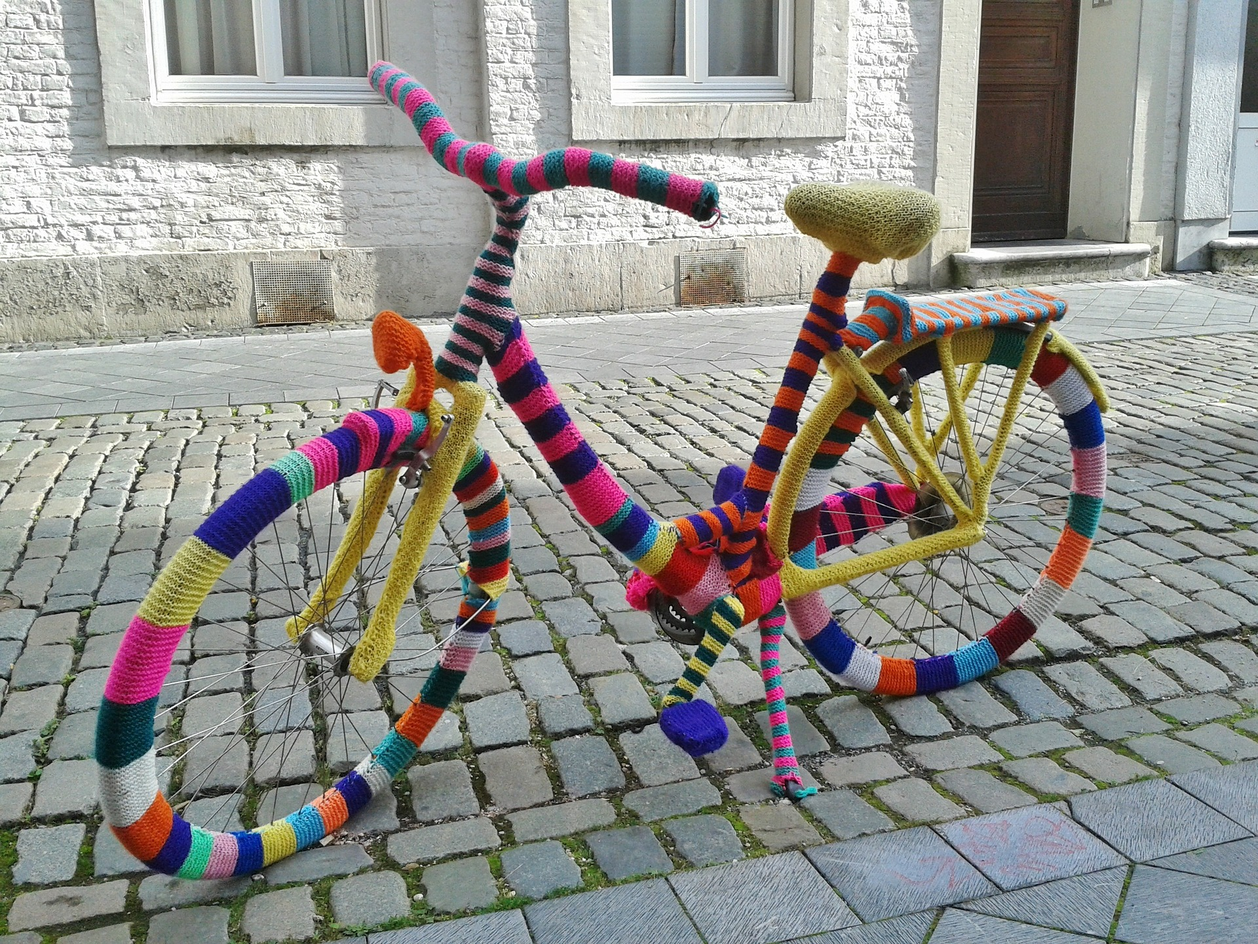
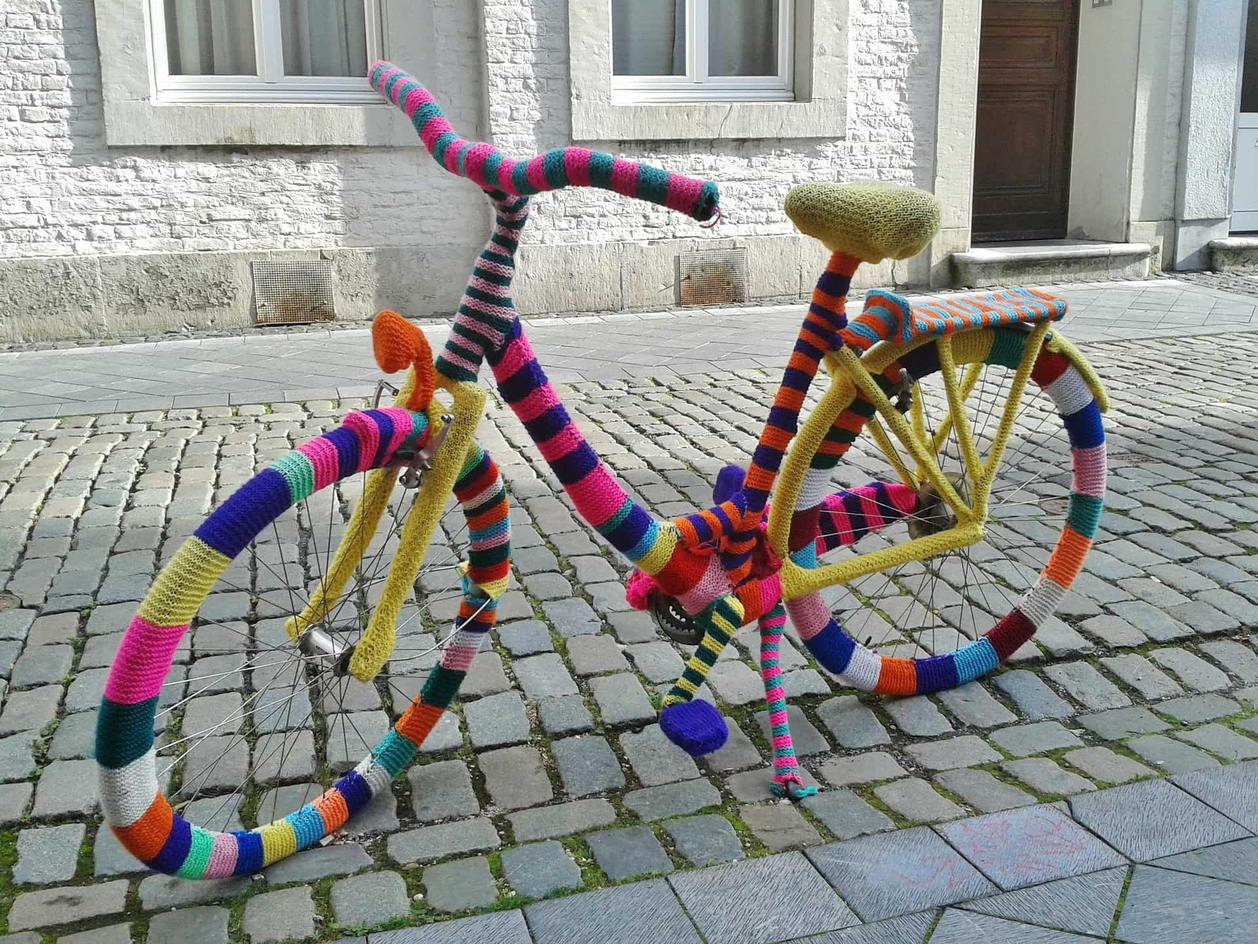
replace images with compressed versions and adjust header menu for mobile browser

Changed region(s): [[0.1875, 0.2812, 0.2812, 0.3438], [0.5312, 0.2812, 0.5938, 0.3125]]

diff --git a/css/style.css b/css/style.css
@@ -1,1 +1,1 @@
-/*! normalize.css v8.0.1 | MIT License | github.com/necolas/normalize.css */html{line-height:1.15;-webkit-text-size-adjust:100%}body{margin:0}main{display:block}h1{font-size:2em;margin:0.67em 0}hr{box-sizing:content-box;height:0;overflow:visible}pre{font-family:monospace, monospace;font-size:1em}a{background-color:transparent}abbr[title]{border-bottom:none;text-decoration:underline;text-decoration:underline dotted}b,strong{font-weight:bolder}code,kbd,samp{font-family:monospace, monospace;font-size:1em}small{font-size:80%}sub,sup{font-size:75%;line-height:0;position:relative;vertical-align:baseline}sub{bottom:-0.25em}sup{top:-0.5em}img{border-style:none}button,input,optgroup,select,textarea{font-family:inherit;font-size:100%;line-height:1.15;margin:0}button,input{overflow:visible}button,select{text-transform:none}button,[type="button"],[type="reset"],[type="submit"]{-webkit-appearance:button}button::-moz-focus-inner,[type="button"]::-moz-focus-inner,[type="reset"]::-moz-focus-inner,[type="submit"]::-moz-focus-inner{border-style:none;padding:0}button:-moz-focusring,[type="button"]:-moz-focusring,[type="reset"]:-moz-focusring,[type="submit"]:-moz-focusring{outline:1px dotted ButtonText}fieldset{padding:0.35em 0.75em 0.625em}legend{box-sizing:border-box;color:inherit;display:table;max-width:100%;padding:0;white-space:normal}progress{vertical-align:baseline}textarea{overflow:auto}[type="checkbox"],[type="radio"]{box-sizing:border-box;padding:0}[type="number"]::-webkit-inner-spin-button,[type="number"]::-webkit-outer-spin-button{height:auto}[type="search"]{-webkit-appearance:textfield;outline-offset:-2px}[type="search"]::-webkit-search-decoration{-webkit-appearance:none}::-webkit-file-upload-button{-webkit-appearance:button;font:inherit}details{display:block}summary{display:list-item}template{display:none}[hidden]{display:none}body{font-family:"Helvetica neue", sans-serif;color:#707070;margin:0}h1,h2,h3,h4{margin:0;font-weight:350}h2{text-align:center}p{margin-top:0.75rem;font-size:1rem;font-weight:350}a{text-decoration:none}#main_page_header,#tablet_profile_and_post_page_header{background-color:#434343;color:white;width:100vw;height:45vh;overflow:auto;text-align:center;position:relative}#main_page_header .header_search_form_field,#tablet_profile_and_post_page_header .header_search_form_field{height:2.5rem;-webkit-box-flex:1;-ms-flex:auto;flex:auto;margin-right:0.3rem;border:none;padding-left:0.5rem;-webkit-box-sizing:border-box;box-sizing:border-box;background-color:#DBDBDB}#main_page_header input[type=submit],#tablet_profile_and_post_page_header input[type=submit]{width:4rem;background-color:#E39500;border:none}#main_page_header button,#tablet_profile_and_post_page_header button{width:3.5rem;height:2.5rem;background-color:black;border:none}#main_page_header button img,#tablet_profile_and_post_page_header button img{margin-top:0.3rem;width:1.5rem;height:auto}#main_page_header .header_search_form_field_filled,#tablet_profile_and_post_page_header .header_search_form_field_filled{background-color:white !important}#main_page_header .header_search_form_button_filled,#tablet_profile_and_post_page_header .header_search_form_button_filled{background-color:#E39500 !important}#main_page_header h1,#tablet_profile_and_post_page_header h1{margin-top:5vh;font-size:4rem}#main_page_header a,#tablet_profile_and_post_page_header a{color:white}#main_page_header form,#tablet_profile_and_post_page_header form{margin:4vh auto 0 auto;display:-webkit-box;display:-ms-flexbox;display:flex;-webkit-box-pack:center;-ms-flex-pack:center;justify-content:center;width:85vw;font-size:0.9rem}#main_page_header #header_link_to_about_us,#tablet_profile_and_post_page_header #header_link_to_about_us{color:white;background-color:#4E4E4E;border:none;position:absolute;left:50%;-webkit-transform:translate(-50%, 0);-ms-transform:translate(-50%, 0);transform:translate(-50%, 0);bottom:2rem;width:12rem;padding:0.75rem;border-radius:3rem;-webkit-box-sizing:border-box;box-sizing:border-box}@media screen and (min-width: 768px){#main_page_header,#tablet_profile_and_post_page_header{display:-webkit-box;display:-ms-flexbox;display:flex;height:6rem;-webkit-box-pack:justify;-ms-flex-pack:justify;justify-content:space-between;padding-left:1rem;padding-right:1rem;-webkit-box-sizing:border-box;box-sizing:border-box;position:fixed}#main_page_header h1,#tablet_profile_and_post_page_header h1{margin-top:1rem;margin-left:1rem;margin:1rem 1rem 0 0;font-size:3.8rem}#main_page_header form,#tablet_profile_and_post_page_header form{margin:2rem 1rem 0 1rem;-webkit-box-flex:auto;-ms-flex-positive:auto;flex-grow:auto;max-width:40rem}#main_page_header #header_link_to_about_us,#tablet_profile_and_post_page_header #header_link_to_about_us{position:static;margin-top:2rem;margin:2rem 1rem 0 1rem;-webkit-transform:none;-ms-transform:none;transform:none;width:14rem}}#other_pages_dropdown_menu{background-color:#434343;color:white;width:100vw;overflow:auto;text-align:center}#other_pages_dropdown_menu a{color:white}#other_pages_dropdown_menu input[type=submit]{width:4rem;background-color:#E39500;border:none}#other_pages_dropdown_menu button{width:3.5rem;height:2.5rem;background-color:black;border:none}#other_pages_dropdown_menu button img{margin-top:0.3rem;width:1.5rem;height:auto}#other_pages_dropdown_menu .header_search_form_field_filled{background-color:white !important}#other_pages_dropdown_menu form{margin:2rem auto 0 auto;display:-webkit-box;display:-ms-flexbox;display:flex;-webkit-box-pack:justify;-ms-flex-pack:justify;justify-content:space-between;width:85vw;font-size:0.9rem}#other_pages_dropdown_menu #header_navbar{position:fixed;top:0rem;width:100vw;z-index:9999;display:block;background-color:white;color:white}#other_pages_dropdown_menu #mobile_dropdown_item_container{display:none;background-color:white;color:black;-webkit-box-shadow:0 10px 10px -10px gray;box-shadow:0 10px 10px -10px gray}#other_pages_dropdown_menu #mobile_dropdown_item_container p{margin:0 auto}#other_pages_dropdown_menu #mobile_dropdown_item_container .drop_down_single_item_box{width:100vw;height:3.9rem;display:-webkit-box;display:-ms-flexbox;display:flex;-webkit-box-align:center;-ms-flex-align:center;align-items:center}#other_pages_dropdown_menu #mobile_dropdown_item_container .drop_down_single_item_box a{text-align:center;color:black;margin:0 auto}#other_pages_dropdown_menu #mobile_dropdown_item_container .header_search_form_field{height:2.5rem;width:13.5rem;border:none;padding-left:0.5rem;-webkit-box-sizing:border-box;box-sizing:border-box;background-color:#DBDBDB;-webkit-box-flex:1;-ms-flex:auto;flex:auto}#other_pages_dropdown_menu #mobile_dropdown_item_container .drop_down_single_item_box:first-child{border-bottom:1px solid #DBDBDB}#other_pages_dropdown_menu #mobile_dropdown_item_container #dropdown_search_form{margin-top:0}#other_pages_dropdown_menu #mobile_dropdown_item_container #dropdown_search_form_field{border:1px solid #DBDBDB}#other_pages_dropdown_menu #mobile_dropdown_item_container #dropdown_search_form_button{background-color:white}@media screen and (min-width: 768px){#other_pages_dropdown_menu{display:none}}#main_page_dropdown_menu{position:fixed;top:0rem;width:100vw;z-index:9999;display:none;color:white}#main_page_dropdown_menu #dropdown_search_form_field{border:1px solid #DBDBDB;width:13.5rem;margin-right:0}.mobile_navbar_container{background-color:#434343;display:-webkit-box;display:-ms-flexbox;display:flex;-webkit-box-pack:justify;-ms-flex-pack:justify;justify-content:space-between;-webkit-box-align:center;-ms-flex-align:center;align-items:center;width:100vw;margin:0 auto;height:3.9rem;padding-left:1rem;padding-right:1rem;-webkit-box-sizing:border-box;box-sizing:border-box}.mobile_navbar_container .dropdown_header{font-size:2rem}.mobile_navbar_container #hamburger_button{width:38px;height:28px;-webkit-transform:rotate(0deg);-ms-transform:rotate(0deg);transform:rotate(0deg);-webkit-transition:.5s ease-in-out;-o-transition:.5s ease-in-out;transition:.5s ease-in-out;cursor:pointer}.mobile_navbar_container #hamburger_button span{position:absolute;height:3px;width:100%;background-color:white;opacity:1;left:0;-webkit-transform:rotate(0deg);-ms-transform:rotate(0deg);transform:rotate(0deg);-webkit-transition:.25s ease-in-out;-o-transition:.25s ease-in-out;transition:.25s ease-in-out}.mobile_navbar_container #hamburger_button span:nth-child(1){top:0px;-webkit-transform-origin:left center;-ms-transform-origin:left center;transform-origin:left center}.mobile_navbar_container #hamburger_button span:nth-child(2){top:45%;-webkit-transform-origin:left center;-ms-transform-origin:left center;transform-origin:left center}.mobile_navbar_container #hamburger_button span:nth-child(3){bottom:0;-webkit-transform-origin:left center;-ms-transform-origin:left center;transform-origin:left center}#hamburger_button.open span:nth-child(1){-webkit-transform:rotate(45deg);-ms-transform:rotate(45deg);transform:rotate(45deg);top:-1px;left:6px}#hamburger_button.open span:nth-child(2){width:0%;opacity:0}#hamburger_button.open span:nth-child(3){-webkit-transform:rotate(-45deg);-ms-transform:rotate(-45deg);transform:rotate(-45deg);bottom:-1px;left:6px}#mobile_dropdown_item_container{display:none;background-color:white;color:black;-webkit-box-shadow:0 10px 10px -10px gray;box-shadow:0 10px 10px -10px gray}#mobile_dropdown_item_container p{margin:0 auto}#mobile_dropdown_item_container .drop_down_single_item_box{width:100vw;height:3.9rem;display:-webkit-box;display:-ms-flexbox;display:flex;-webkit-box-align:center;-ms-flex-align:center;align-items:center}#mobile_dropdown_item_container .drop_down_single_item_box a{text-align:center;color:black;margin:0 auto}#mobile_dropdown_item_container .drop_down_single_item_box:first-child{border-bottom:1px solid #DBDBDB}#mobile_dropdown_item_container #dropdown_search_form{margin-top:0}#mobile_dropdown_item_container #dropdown_search_form_button{background-color:white}#dropdown_about_us_link{width:100%;height:100%;display:-webkit-box;display:-ms-flexbox;display:flex;-webkit-box-align:center;-ms-flex-align:center;align-items:center}.main_page_feed_container{display:-webkit-box;display:-ms-flexbox;display:flex;-webkit-box-pack:center;-ms-flex-pack:center;justify-content:center;width:100vw;padding-top:2rem;-ms-flex-wrap:wrap;flex-wrap:wrap;padding:2rem 0 0 0;overflow:auto;-webkit-box-sizing:border-box;box-sizing:border-box}.main_page_feed_container .feed_header{width:100vw;margin-bottom:1rem}.main_page_feed_container h2:first-of-type{margin-top:1rem}.main_page_feed_container .go_back_button_tablet_flex_parent{width:100vw}.main_page_feed_container #go_back_button{width:4rem;height:3rem;padding:0;border:none;background-color:white;margin-bottom:0.5rem}.main_page_feed_container #go_back_button img{margin-top:0.3rem;width:1.5rem;height:auto}@media screen and (min-width: 768px){.main_page_feed_container{padding:10rem 0 0 0;-webkit-box-pack:space-evenly;-ms-flex-pack:space-evenly;justify-content:space-evenly}.main_page_feed_container .feed_header{margin-bottom:2rem}}@media screen and (min-width: 768px){.main_page_feed_container .go_back_button_tablet_flex_parent{visibility:visible;display:-webkit-box;display:-ms-flexbox;display:flex;-webkit-box-pack:space-evenly;-ms-flex-pack:space-evenly;justify-content:space-evenly;width:100vw;margin:0 auto}.main_page_feed_container #go_back_button{margin-left:1rem}.main_page_feed_container .go_back_button_tablet_flex_box{visibility:visible;width:25rem;margin-right:4rem}.main_page_feed_container .go_back_button_tablet_flex_sibling{display:block;width:40%}#search_result_feed_container{padding-top:8rem}#search_result_feed_container h2:first-of-type{margin-top:0}}@media screen and (min-width: 1024px){.main_page_feed_container .go_back_button_tablet_flex_parent{display:none}}#tablet_profile_and_post_page_header{display:none}.profile_and_post_container{margin:0 auto;padding-top:4.5rem;overflow:auto;-webkit-box-sizing:border-box;box-sizing:border-box}.profile_and_post_container #go_back_button{width:4rem;height:3rem;padding:0;border:none;background-color:white;margin-bottom:0.5rem}.profile_and_post_container #go_back_button img{margin-top:0.3rem;width:1.5rem;height:auto}.profile_and_post_container .profile_card{width:100vw;margin:0 auto 1rem auto}.profile_and_post_container .profile_card .profile_picture_frame{width:20rem;margin:0 auto 1rem auto}.profile_and_post_container .profile_card .profile_picture_frame img{-o-object-fit:contain;object-fit:contain;max-width:20rem;max-height:20rem;display:block;margin-left:auto;margin-right:auto}.profile_and_post_container #work_card{margin-left:0;margin-right:0}.profile_and_post_container .art_frame{margin:0 auto}.profile_and_post_container .profile_name_header{color:#E39500;margin-bottom:1rem}.profile_and_post_container .description_text{text-align:left;width:90vw;max-width:30rem;margin:0 auto}.profile_and_post_container .work_description{margin-top:1.5rem}.creators_work_container{margin-top:2.2rem;margin:2.2rem auto 0 auto}.creators_work_container h2{font-size:1.25rem}.creators_work_container .creators_work_feed_container{width:96vw;margin:2rem auto 0 auto;display:-webkit-box;display:-ms-flexbox;display:flex;-ms-flex-wrap:wrap;flex-wrap:wrap;-ms-flex-line-pack:start;align-content:flex-start}.creators_work_container .work_feed_art_frame{background-color:#EAEAEA;display:-webkit-box;display:-ms-flexbox;display:flex;-webkit-box-pack:center;-ms-flex-pack:center;justify-content:center;-webkit-box-align:center;-ms-flex-align:center;align-items:center;margin-bottom:2vw;-webkit-box-sizing:border-box;box-sizing:border-box;text-align:center;width:30vw;height:30vw;margin-left:1vw;margin-right:1vw}.creators_work_container .work_feed_art_frame a{max-height:28vw;max-width:28vw}.creators_work_container .work_feed_art_frame img{-o-object-fit:contain;object-fit:contain;border:0;margin:0;max-height:28vw;max-width:28vw}@media screen and (min-width: 768px){#tablet_profile_and_post_page_header{display:-webkit-box;display:-ms-flexbox;display:flex}.profile_and_post_container{width:100vw;padding-top:8rem;-webkit-box-sizing:border-box;box-sizing:border-box;overflow:auto}.profile_and_post_container .profile_card .profile_picture_frame{width:40vw}.profile_and_post_container .profile_card .profile_picture_frame img{max-width:40vw;max-height:30rem}.profile_and_post_container .go_back_button_tablet_flex_parent{display:-webkit-box;display:-ms-flexbox;display:flex;-webkit-box-pack:space-evenly;-ms-flex-pack:space-evenly;justify-content:space-evenly;margin:0 auto}.profile_and_post_container #go_back_button{margin-left:1rem}.profile_and_post_container .go_back_button_tablet_flex_box{width:25rem;margin-right:4rem}.profile_and_post_container .go_back_button_tablet_flex_sibling{display:block;width:40%}#work_card{display:-webkit-box;display:-ms-flexbox;display:flex;-webkit-box-pack:space-evenly;-ms-flex-pack:space-evenly;justify-content:space-evenly;margin-left:0;margin-right:0;margin-top:2rem}#work_page_art_frame{margin:0;width:25rem;height:25rem}#work_page_art_frame img{max-width:24rem;max-height:24rem}.tablet_flex_box{width:40%}.tablet_flex_box .description_text{width:initial}.tablet_flex_box h2,.tablet_flex_box p{text-align:left}}@media screen and (min-width: 1024px){#profile_container{display:-webkit-box;display:-ms-flexbox;display:flex;-webkit-box-pack:justify;-ms-flex-pack:justify;justify-content:space-between;padding-left:5vw;padding-right:1vw}#profile_container .profile_and_post_container{width:inherit;margin-left:0;margin-right:0}#profile_container .profile_and_post_container .profile_card{width:initial;margin-top:2rem}#profile_container .profile_and_post_container .profile_card .description_text{max-width:25vw}#profile_container .profile_and_post_container .profile_card .profile_picture_frame{width:initial}#profile_container .profile_and_post_container .profile_card .profile_picture_frame img{max-width:25vw;max-height:25vw}#profile_container .creators_work_container{width:64vw;margin:8rem 0 0 0}#profile_container .creators_work_container h2{width:100%;margin-left:-1rem}#profile_container .creators_work_container .creators_work_feed_container{width:inherit}#profile_container .creators_work_container .work_feed_art_frame{width:18vw;height:18vw;margin-left:1vw;margin-right:1vw}#profile_container .creators_work_container .work_feed_art_frame a{max-height:16vw;max-width:16vw}#profile_container .creators_work_container .work_feed_art_frame img{max-height:16vw;max-width:16vw}.profile_and_post_container .go_back_button_tablet_flex_parent{display:none}.profile_and_post_container #work_card{-webkit-box-pack:left;-ms-flex-pack:left;justify-content:left;padding-left:10vw;padding-right:10vw}.profile_and_post_container #work_page_art_frame{width:40vw;height:40vw}.profile_and_post_container #work_page_art_frame img{max-width:95%;max-height:95%}.profile_and_post_container .tablet_flex_box{margin-left:4rem}}.post_card{text-align:center;-webkit-box-sizing:border-box;box-sizing:border-box;margin:0 1rem 2rem 1rem}.post_card a{color:#E39500;padding-top:0.25rem}.post_card .searched_work_header{color:#707070}.post_card .work_link{color:#707070}.post_card h2{font-size:1.25rem}.post_card .art_frame{width:20rem;height:20rem;background-color:#EAEAEA;display:-webkit-box;display:-ms-flexbox;display:flex;-webkit-box-pack:center;-ms-flex-pack:center;justify-content:center;-webkit-box-align:center;-ms-flex-align:center;align-items:center;margin-bottom:1rem;-webkit-box-sizing:border-box;box-sizing:border-box}.post_card .art_frame img{-o-object-fit:contain;object-fit:contain;max-width:19rem;max-height:19rem;border:0}@media screen and (min-width: 768px){.post_card{margin:0 2rem 3rem 2rem}}#about_us_main h2{text-align:center;margin:2rem auto 1rem auto;width:90vw;max-width:30rem}@media screen and (min-width: 768px){#about_us_main .description_text{max-width:40rem}#about_us_main h2{max-width:40rem;text-align:left}}
+/*! normalize.css v8.0.1 | MIT License | github.com/necolas/normalize.css */html{line-height:1.15;-webkit-text-size-adjust:100%}body{margin:0}main{display:block}h1{font-size:2em;margin:0.67em 0}hr{box-sizing:content-box;height:0;overflow:visible}pre{font-family:monospace, monospace;font-size:1em}a{background-color:transparent}abbr[title]{border-bottom:none;text-decoration:underline;text-decoration:underline dotted}b,strong{font-weight:bolder}code,kbd,samp{font-family:monospace, monospace;font-size:1em}small{font-size:80%}sub,sup{font-size:75%;line-height:0;position:relative;vertical-align:baseline}sub{bottom:-0.25em}sup{top:-0.5em}img{border-style:none}button,input,optgroup,select,textarea{font-family:inherit;font-size:100%;line-height:1.15;margin:0}button,input{overflow:visible}button,select{text-transform:none}button,[type="button"],[type="reset"],[type="submit"]{-webkit-appearance:button}button::-moz-focus-inner,[type="button"]::-moz-focus-inner,[type="reset"]::-moz-focus-inner,[type="submit"]::-moz-focus-inner{border-style:none;padding:0}button:-moz-focusring,[type="button"]:-moz-focusring,[type="reset"]:-moz-focusring,[type="submit"]:-moz-focusring{outline:1px dotted ButtonText}fieldset{padding:0.35em 0.75em 0.625em}legend{box-sizing:border-box;color:inherit;display:table;max-width:100%;padding:0;white-space:normal}progress{vertical-align:baseline}textarea{overflow:auto}[type="checkbox"],[type="radio"]{box-sizing:border-box;padding:0}[type="number"]::-webkit-inner-spin-button,[type="number"]::-webkit-outer-spin-button{height:auto}[type="search"]{-webkit-appearance:textfield;outline-offset:-2px}[type="search"]::-webkit-search-decoration{-webkit-appearance:none}::-webkit-file-upload-button{-webkit-appearance:button;font:inherit}details{display:block}summary{display:list-item}template{display:none}[hidden]{display:none}body{font-family:"Helvetica neue", sans-serif;color:#707070;margin:0}h1,h2,h3,h4{margin:0;font-weight:350}h2{text-align:center}p{margin-top:0.75rem;font-size:1rem;font-weight:350}a{text-decoration:none}#main_page_header,#tablet_profile_and_post_page_header{background-color:#434343;color:white;width:100vw;height:18rem;overflow:auto;text-align:center;position:relative}#main_page_header .header_search_form_field,#tablet_profile_and_post_page_header .header_search_form_field{height:2.5rem;-webkit-box-flex:1;-ms-flex:auto;flex:auto;margin-right:0.3rem;border:none;padding-left:0.5rem;-webkit-box-sizing:border-box;box-sizing:border-box;background-color:#DBDBDB}#main_page_header input[type=submit],#tablet_profile_and_post_page_header input[type=submit]{width:4rem;background-color:#E39500;border:none}#main_page_header button,#tablet_profile_and_post_page_header button{width:3.5rem;height:2.5rem;background-color:black;border:none}#main_page_header button img,#tablet_profile_and_post_page_header button img{margin-top:0.3rem;width:1.5rem;height:auto}#main_page_header .header_search_form_field_filled,#tablet_profile_and_post_page_header .header_search_form_field_filled{background-color:white !important}#main_page_header .header_search_form_button_filled,#tablet_profile_and_post_page_header .header_search_form_button_filled{background-color:#E39500 !important}#main_page_header h1,#tablet_profile_and_post_page_header h1{margin-top:2rem;font-size:4rem}#main_page_header a,#tablet_profile_and_post_page_header a{color:white}#main_page_header form,#tablet_profile_and_post_page_header form{margin:1.8rem auto 0 auto;display:-webkit-box;display:-ms-flexbox;display:flex;-webkit-box-pack:center;-ms-flex-pack:center;justify-content:center;width:85vw;font-size:0.9rem}#main_page_header #header_link_to_about_us,#tablet_profile_and_post_page_header #header_link_to_about_us{color:white;background-color:#4E4E4E;border:none;position:absolute;left:50%;-webkit-transform:translate(-50%, 0);-ms-transform:translate(-50%, 0);transform:translate(-50%, 0);bottom:2rem;width:12rem;padding:0.75rem;border-radius:3rem;-webkit-box-sizing:border-box;box-sizing:border-box}@media screen and (min-width: 768px){#main_page_header,#tablet_profile_and_post_page_header{display:-webkit-box;display:-ms-flexbox;display:flex;height:6rem;-webkit-box-pack:justify;-ms-flex-pack:justify;justify-content:space-between;padding-left:1rem;padding-right:1rem;-webkit-box-sizing:border-box;box-sizing:border-box;position:fixed}#main_page_header h1,#tablet_profile_and_post_page_header h1{margin-top:1rem;margin-left:1rem;margin:1rem 1rem 0 0;font-size:3.8rem}#main_page_header form,#tablet_profile_and_post_page_header form{margin:2rem 1rem 0 1rem;-webkit-box-flex:auto;-ms-flex-positive:auto;flex-grow:auto;max-width:40rem}#main_page_header #header_link_to_about_us,#tablet_profile_and_post_page_header #header_link_to_about_us{position:static;margin-top:2rem;margin:2rem 1rem 0 1rem;-webkit-transform:none;-ms-transform:none;transform:none;width:14rem}}#other_pages_dropdown_menu{background-color:#434343;color:white;width:100vw;overflow:auto;text-align:center}#other_pages_dropdown_menu a{color:white}#other_pages_dropdown_menu input[type=submit]{width:4rem;background-color:#E39500;border:none}#other_pages_dropdown_menu button{width:3.5rem;height:2.5rem;background-color:black;border:none}#other_pages_dropdown_menu button img{margin-top:0.3rem;width:1.5rem;height:auto}#other_pages_dropdown_menu .header_search_form_field_filled{background-color:white !important}#other_pages_dropdown_menu form{margin:2rem auto 0 auto;display:-webkit-box;display:-ms-flexbox;display:flex;-webkit-box-pack:justify;-ms-flex-pack:justify;justify-content:space-between;width:85vw;font-size:0.9rem}#other_pages_dropdown_menu #header_navbar{position:fixed;top:0rem;width:100vw;z-index:9999;display:block;background-color:white;color:white}#other_pages_dropdown_menu #mobile_dropdown_item_container{display:none;background-color:white;color:black;-webkit-box-shadow:0 10px 10px -10px gray;box-shadow:0 10px 10px -10px gray}#other_pages_dropdown_menu #mobile_dropdown_item_container p{margin:0 auto}#other_pages_dropdown_menu #mobile_dropdown_item_container .drop_down_single_item_box{width:100vw;height:3.9rem;display:-webkit-box;display:-ms-flexbox;display:flex;-webkit-box-align:center;-ms-flex-align:center;align-items:center}#other_pages_dropdown_menu #mobile_dropdown_item_container .drop_down_single_item_box a{text-align:center;color:black;margin:0 auto}#other_pages_dropdown_menu #mobile_dropdown_item_container .header_search_form_field{height:2.5rem;width:13.5rem;border:none;padding-left:0.5rem;-webkit-box-sizing:border-box;box-sizing:border-box;background-color:#DBDBDB;-webkit-box-flex:1;-ms-flex:auto;flex:auto}#other_pages_dropdown_menu #mobile_dropdown_item_container .drop_down_single_item_box:first-child{border-bottom:1px solid #DBDBDB}#other_pages_dropdown_menu #mobile_dropdown_item_container #dropdown_search_form{margin-top:0}#other_pages_dropdown_menu #mobile_dropdown_item_container #dropdown_search_form_field{border:1px solid #DBDBDB}#other_pages_dropdown_menu #mobile_dropdown_item_container #dropdown_search_form_button{background-color:white}@media screen and (min-width: 768px){#other_pages_dropdown_menu{display:none}}#main_page_dropdown_menu{position:fixed;top:0rem;width:100vw;z-index:9999;display:none;color:white}#main_page_dropdown_menu #dropdown_search_form_field{border:1px solid #DBDBDB;width:13.5rem;margin-right:0}.mobile_navbar_container{background-color:#434343;display:-webkit-box;display:-ms-flexbox;display:flex;-webkit-box-pack:justify;-ms-flex-pack:justify;justify-content:space-between;-webkit-box-align:center;-ms-flex-align:center;align-items:center;width:100vw;margin:0 auto;height:3.9rem;padding-left:1rem;padding-right:1rem;-webkit-box-sizing:border-box;box-sizing:border-box}.mobile_navbar_container .dropdown_header{font-size:2rem}.mobile_navbar_container #hamburger_button{width:38px;height:28px;-webkit-transform:rotate(0deg);-ms-transform:rotate(0deg);transform:rotate(0deg);-webkit-transition:.5s ease-in-out;-o-transition:.5s ease-in-out;transition:.5s ease-in-out;cursor:pointer}.mobile_navbar_container #hamburger_button span{position:absolute;height:3px;width:100%;background-color:white;opacity:1;left:0;-webkit-transform:rotate(0deg);-ms-transform:rotate(0deg);transform:rotate(0deg);-webkit-transition:.25s ease-in-out;-o-transition:.25s ease-in-out;transition:.25s ease-in-out}.mobile_navbar_container #hamburger_button span:nth-child(1){top:0px;-webkit-transform-origin:left center;-ms-transform-origin:left center;transform-origin:left center}.mobile_navbar_container #hamburger_button span:nth-child(2){top:45%;-webkit-transform-origin:left center;-ms-transform-origin:left center;transform-origin:left center}.mobile_navbar_container #hamburger_button span:nth-child(3){bottom:0;-webkit-transform-origin:left center;-ms-transform-origin:left center;transform-origin:left center}#hamburger_button.open span:nth-child(1){-webkit-transform:rotate(45deg);-ms-transform:rotate(45deg);transform:rotate(45deg);top:-1px;left:6px}#hamburger_button.open span:nth-child(2){width:0%;opacity:0}#hamburger_button.open span:nth-child(3){-webkit-transform:rotate(-45deg);-ms-transform:rotate(-45deg);transform:rotate(-45deg);bottom:-1px;left:6px}#mobile_dropdown_item_container{display:none;background-color:white;color:black;-webkit-box-shadow:0 10px 10px -10px gray;box-shadow:0 10px 10px -10px gray}#mobile_dropdown_item_container p{margin:0 auto}#mobile_dropdown_item_container .drop_down_single_item_box{width:100vw;height:3.9rem;display:-webkit-box;display:-ms-flexbox;display:flex;-webkit-box-align:center;-ms-flex-align:center;align-items:center}#mobile_dropdown_item_container .drop_down_single_item_box a{text-align:center;color:black;margin:0 auto}#mobile_dropdown_item_container .drop_down_single_item_box:first-child{border-bottom:1px solid #DBDBDB}#mobile_dropdown_item_container #dropdown_search_form{margin-top:0}#mobile_dropdown_item_container #dropdown_search_form_button{background-color:white}#dropdown_about_us_link{width:100%;height:100%;display:-webkit-box;display:-ms-flexbox;display:flex;-webkit-box-align:center;-ms-flex-align:center;align-items:center}.main_page_feed_container{display:-webkit-box;display:-ms-flexbox;display:flex;-webkit-box-pack:center;-ms-flex-pack:center;justify-content:center;width:100vw;padding-top:2rem;-ms-flex-wrap:wrap;flex-wrap:wrap;padding:2rem 0 0 0;overflow:auto;-webkit-box-sizing:border-box;box-sizing:border-box}.main_page_feed_container .feed_header{width:100vw;margin-bottom:1rem}.main_page_feed_container h2:first-of-type{margin-top:1rem}.main_page_feed_container .go_back_button_tablet_flex_parent{width:100vw}.main_page_feed_container #go_back_button{width:4rem;height:3rem;padding:0;border:none;background-color:white;margin-bottom:0.5rem}.main_page_feed_container #go_back_button img{margin-top:0.3rem;width:1.5rem;height:auto}@media screen and (min-width: 768px){.main_page_feed_container{padding:10rem 0 0 0;-webkit-box-pack:space-evenly;-ms-flex-pack:space-evenly;justify-content:space-evenly}.main_page_feed_container .feed_header{margin-bottom:2rem}}@media screen and (min-width: 768px){.main_page_feed_container .go_back_button_tablet_flex_parent{visibility:visible;display:-webkit-box;display:-ms-flexbox;display:flex;-webkit-box-pack:space-evenly;-ms-flex-pack:space-evenly;justify-content:space-evenly;width:100vw;margin:0 auto}.main_page_feed_container #go_back_button{margin-left:1rem}.main_page_feed_container .go_back_button_tablet_flex_box{visibility:visible;width:25rem;margin-right:4rem}.main_page_feed_container .go_back_button_tablet_flex_sibling{display:block;width:40%}#search_result_feed_container{padding-top:8rem}#search_result_feed_container h2:first-of-type{margin-top:0}}@media screen and (min-width: 1024px){.main_page_feed_container .go_back_button_tablet_flex_parent{display:none}}#tablet_profile_and_post_page_header{display:none}.profile_and_post_container{margin:0 auto;padding-top:4.5rem;overflow:auto;-webkit-box-sizing:border-box;box-sizing:border-box}.profile_and_post_container #go_back_button{width:4rem;height:3rem;padding:0;border:none;background-color:white;margin-bottom:0.5rem}.profile_and_post_container #go_back_button img{margin-top:0.3rem;width:1.5rem;height:auto}.profile_and_post_container .profile_card{width:100vw;margin:0 auto 1rem auto}.profile_and_post_container .profile_card .profile_picture_frame{width:20rem;margin:0 auto 1rem auto}.profile_and_post_container .profile_card .profile_picture_frame img{-o-object-fit:contain;object-fit:contain;max-width:20rem;max-height:20rem;display:block;margin-left:auto;margin-right:auto}.profile_and_post_container #work_card{margin-left:0;margin-right:0}.profile_and_post_container .art_frame{margin:0 auto}.profile_and_post_container .profile_name_header{color:#E39500;margin-bottom:1rem}.profile_and_post_container .description_text{text-align:left;width:90vw;max-width:30rem;margin:0 auto}.profile_and_post_container .work_description{margin-top:1.5rem}.creators_work_container{margin-top:2.2rem;margin:2.2rem auto 0 auto}.creators_work_container h2{font-size:1.25rem}.creators_work_container .creators_work_feed_container{width:96vw;margin:2rem auto 0 auto;display:-webkit-box;display:-ms-flexbox;display:flex;-ms-flex-wrap:wrap;flex-wrap:wrap;-ms-flex-line-pack:start;align-content:flex-start}.creators_work_container .work_feed_art_frame{background-color:#EAEAEA;display:-webkit-box;display:-ms-flexbox;display:flex;-webkit-box-pack:center;-ms-flex-pack:center;justify-content:center;-webkit-box-align:center;-ms-flex-align:center;align-items:center;margin-bottom:2vw;-webkit-box-sizing:border-box;box-sizing:border-box;text-align:center;width:30vw;height:30vw;margin-left:1vw;margin-right:1vw}.creators_work_container .work_feed_art_frame a{max-height:28vw;max-width:28vw}.creators_work_container .work_feed_art_frame img{-o-object-fit:contain;object-fit:contain;border:0;margin:0;max-height:28vw;max-width:28vw}@media screen and (min-width: 768px){#tablet_profile_and_post_page_header{display:-webkit-box;display:-ms-flexbox;display:flex}.profile_and_post_container{width:100vw;padding-top:8rem;-webkit-box-sizing:border-box;box-sizing:border-box;overflow:auto}.profile_and_post_container .profile_card .profile_picture_frame{width:40vw}.profile_and_post_container .profile_card .profile_picture_frame img{max-width:40vw;max-height:30rem}.profile_and_post_container .go_back_button_tablet_flex_parent{display:-webkit-box;display:-ms-flexbox;display:flex;-webkit-box-pack:space-evenly;-ms-flex-pack:space-evenly;justify-content:space-evenly;margin:0 auto}.profile_and_post_container #go_back_button{margin-left:1rem}.profile_and_post_container .go_back_button_tablet_flex_box{width:25rem;margin-right:4rem}.profile_and_post_container .go_back_button_tablet_flex_sibling{display:block;width:40%}#work_card{display:-webkit-box;display:-ms-flexbox;display:flex;-webkit-box-pack:space-evenly;-ms-flex-pack:space-evenly;justify-content:space-evenly;margin-left:0;margin-right:0;margin-top:2rem}#work_page_art_frame{margin:0;width:25rem;height:25rem}#work_page_art_frame img{max-width:24rem;max-height:24rem}.tablet_flex_box{width:40%}.tablet_flex_box .description_text{width:initial}.tablet_flex_box h2,.tablet_flex_box p{text-align:left}}@media screen and (min-width: 1024px){#profile_container{display:-webkit-box;display:-ms-flexbox;display:flex;-webkit-box-pack:justify;-ms-flex-pack:justify;justify-content:space-between;padding-left:5vw;padding-right:1vw}#profile_container .profile_and_post_container{width:inherit;margin-left:0;margin-right:0}#profile_container .profile_and_post_container .profile_card{width:initial;margin-top:2rem}#profile_container .profile_and_post_container .profile_card .description_text{max-width:25vw}#profile_container .profile_and_post_container .profile_card .profile_picture_frame{width:initial}#profile_container .profile_and_post_container .profile_card .profile_picture_frame img{max-width:25vw;max-height:25vw}#profile_container .creators_work_container{width:64vw;margin:8rem 0 0 0}#profile_container .creators_work_container h2{width:100%;margin-left:-1rem}#profile_container .creators_work_container .creators_work_feed_container{width:inherit}#profile_container .creators_work_container .work_feed_art_frame{width:18vw;height:18vw;margin-left:1vw;margin-right:1vw}#profile_container .creators_work_container .work_feed_art_frame a{max-height:16vw;max-width:16vw}#profile_container .creators_work_container .work_feed_art_frame img{max-height:16vw;max-width:16vw}.profile_and_post_container .go_back_button_tablet_flex_parent{display:none}.profile_and_post_container #work_card{-webkit-box-pack:left;-ms-flex-pack:left;justify-content:left;padding-left:10vw;padding-right:10vw}.profile_and_post_container #work_page_art_frame{width:40vw;height:40vw}.profile_and_post_container #work_page_art_frame img{max-width:95%;max-height:95%}.profile_and_post_container .tablet_flex_box{margin-left:4rem}}.post_card{text-align:center;-webkit-box-sizing:border-box;box-sizing:border-box;margin:0 1rem 2rem 1rem}.post_card a{color:#E39500;padding-top:0.25rem}.post_card .searched_work_header{color:#707070}.post_card .work_link{color:#707070}.post_card h2{font-size:1.25rem}.post_card .art_frame{width:20rem;height:20rem;background-color:#EAEAEA;display:-webkit-box;display:-ms-flexbox;display:flex;-webkit-box-pack:center;-ms-flex-pack:center;justify-content:center;-webkit-box-align:center;-ms-flex-align:center;align-items:center;margin-bottom:1rem;-webkit-box-sizing:border-box;box-sizing:border-box}.post_card .art_frame img{-o-object-fit:contain;object-fit:contain;max-width:19rem;max-height:19rem;border:0}@media screen and (min-width: 768px){.post_card{margin:0 2rem 3rem 2rem}}#about_us_main h2{text-align:center;margin:2rem auto 1rem auto;width:90vw;max-width:30rem}@media screen and (min-width: 768px){#about_us_main .description_text{max-width:40rem}#about_us_main h2{max-width:40rem;text-align:left}}

diff --git a/scss/modules/_main_page_header.scss b/scss/modules/_main_page_header.scss
@@ -3,7 +3,7 @@
     background-color: $dark_color;
     color: white;
     width: 100vw;
-    height: 45vh;
+    height: 18rem;
     overflow: auto;
     text-align: center;
     position: relative;
@@ -49,7 +49,8 @@
     }
 
     h1{
-        margin-top: 5vh;
+        //margin-top: 5vh;
+        margin-top: 2rem;
         font-size: 4rem;
     }
 
@@ -58,7 +59,7 @@
     }
 
     form{
-        margin: 4vh auto 0 auto;
+        margin: 1.8rem auto 0 auto;
         display: -webkit-box;
         display: -ms-flexbox;
         display: flex;
